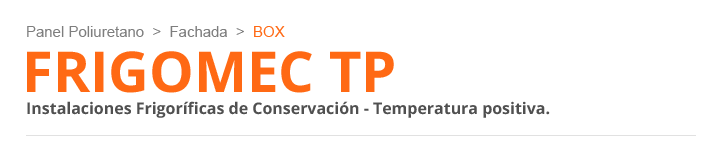
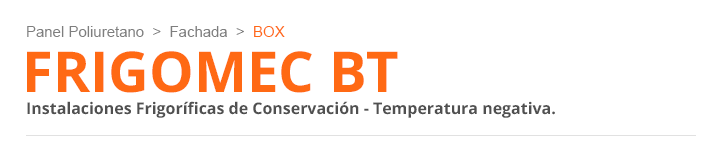
cambios del mail - miercoles

diff --git a/productos/colores/colores.html b/productos/colores/colores.html
@@ -1,0 +1,82 @@
+<section class="producto">
+  <div class="nombreProducto">
+    <h2>GAMA DE COLORES</h2><span class="rutaProducto"></span>
+  </div>
+  <hr>
+  <div class="row">
+    <div class="col-sm-12">
+      <p class="subtitutlo fnaranja">Colores Estándar.</p>
+    </div>
+  </div>
+  <div class="row">
+    <div class="col-sm-7 text-center">
+      <img src="productos/colores/colores1.png" class="img-responsive inline">
+    </div>
+    <div class="col-sm-5">
+      <p> 1. Blanco Pirineo - 1006<br>
+          2. Rojo Teja - 7001<br>
+          3. Verde Navarra - 3000<br>
+          4. Crema Bidasoa - 2002<br>
+          5. Gris Perla - 7501<br>
+          6. Marfil - 1015<br>
+          7. Silver Metálic - 9006<br>       
+          8. Blanco Puro - 9010<br>
+          9. Verde Reseda - 6011<br>
+          10. Negro Intenso - 9005<br>
+          11. Blue Vision<br>
+          12. Blanco Grigio - 9002<br>
+          13. Azul Lago - 4000<br>
+          14. Azul Grisáceo - 5008<br>
+          15. Gris Antracita - 7016<br>
+          16. Albero Envejecido<br>
+          17. Rojo Coppo<br>
+          18. Rojo Coppo Envejecido<br>
+          19. Gris Pizarra Coppo<br>
+          20. Verde Coppo<br>
+          </p>
+    </div>
+
+  </div>
+  <div class="row">
+    <div class="col-sm-12">
+      <p class="subtitutlo fnaranja">Colores No Estándar.</p>
+    </div>
+  </div>
+  <div class="row">
+    <div class="col-sm-7 text-center">
+      <img src="productos/colores/colores2.png" class="img-responsive inline">
+    </div>
+    <div class="col-sm-5">
+      <p> 1. Arena - 2000<br>
+          2. Gris Beige - 7006<br>
+          3. Gris Polvo - 7037<br>
+          4. Gris Basalto - 7012<br>
+          5. Gris Agata - 7038<br>
+          6. Rojo Vivo - 3000<br>
+          7. Rosso Siena - 3009<br>
+          8. Azul Marino<br>
+          9. Verde Abeto<br>
+          10. Gris Umbro
+          </p>
+    </div>
+
+  </div>
+  <!-- tablas ocultas en xs -->
+  <div class="tabas hidden-xs text-center">
+    <!--<span class="">Espesor (mm)</span>
+  	<img src="productos/poliuretano/frigomec/jespesor1.png">
+    <img src="productos/poliuretano/frigomec/jespesor2.png">
+    <hr>
+    <img src="productos/poliuretano/frigomec/jtabla1.png" class="img-responsive inline">
+    <br><br>
+    <img src="productos/poliuretano/frigomec/jtabla2.png" class="img-responsive inline">
+    <br><br>
+    <img src="productos/poliuretano/frigomec/jtabla3.png" class="img-responsive inline">-->
+   
+  </div>
+  <!-- boton pdf -->
+  <div class="pdf">
+  	<button type="button" class="btn btn-success btn-lg btn-block">Más Especificaciones</button>
+  </div>
+
+</section>

diff --git a/productos/poliuretano/construccionCubierta/italtap.html b/productos/poliuretano/construccionCubierta/italtap.html
@@ -1,0 +1,38 @@
+<section class="producto">
+  <div class="nombreProducto">
+    <h2>ITALTAP</h2><span class="rutaProducto">Panel Poliuretano / Cubierta / Italtap</span>
+  </div>
+  <hr>
+  <div class="row">
+  	<div class="col-sm-6">
+  		<p class="subtitutlo fnaranja">Panel Cubierta Industrial 3 grecas, con tapajunta.</p>
+  		<p>Sobrecargas admisibles, uniformemente distribuidas en kg/m2 (Ratio de conversión 1kg/m2 = 0,00981 KN/m2).
+      Las tablas se han desarrollado para paneles con soportes de acero, de 0,5 mm, nominal imponiendo la limitación de deformación: Flecha f=1/200 l.
+      Coeficiente de seguridad: 2.5
+		</p>
+  	</div>
+  	<div class="col-sm-6">
+  		<img src="productos/poliuretano/construccionCubierta/italtap.png" class="img-responsive">
+  	</div>
+  </div>
+  <!-- tablas ocultas en xs -->
+  <div class="tabas hidden-xs text-center">
+    <span class="">Espesor (mm)</span>
+  	<img src="productos/poliuretano/construccionCubierta/italtapespesor1.png">
+    <img src="productos/poliuretano/construccionCubierta/italtapespesor2.png">
+    <hr>
+
+    <img src="productos/poliuretano/construccionCubierta/italtaptabla1.png" class="img-responsive inline">
+    <p class="text-center">El coeficiente de transmisión térmica (K) se ha calculado considerando el espesor del núcleo aislante y
+teniendo en cuenta la resistencia superficial.</p>
+    <img src="productos/poliuretano/construccionCubierta/italtaptabla2.png" class="img-responsive inline">
+    <br><br>
+    <img src="productos/poliuretano/construccionCubierta/italtaptabla3.png" class="img-responsive inline">
+    
+  </div>
+  <!-- boton pdf -->
+  <div class="pdf">
+  	<button type="button" class="btn btn-success btn-lg btn-block">Más Especificaciones</button>
+  </div>
+
+</section>

diff --git a/productos/poliuretano/frigomec/frigomecbt.html b/productos/poliuretano/frigomec/frigomecbt.html
@@ -1,0 +1,35 @@
+<section class="producto">
+  <div class="nombreProducto">
+    <h2>FRIGOMEC BT</h2><span class="rutaProducto">Panel Poliuretano / Frigomec / Frigomec BT</span>
+  </div>
+  <hr>
+  <div class="row">
+  	<div class="col-sm-6">
+  		<p class="subtitutlo fnaranja">Instalaciones Frigoríficas de Conservación.<br>Temperatura negativa.</p>
+  		<p>Se utilizan para la construcción de instalaciones para el almacenamiento y conservación de materiales a baja temperatura, entre 0°C -5°C o a temperatura de congelación hasta -3'°C.
+<br><br>
+Su especial morfología permite la construcción rápida, de calidad y eficiente, cumpliendo las más exigentes normativas.
+		</p>
+  	</div>
+  	<div class="col-sm-6">
+  		<img src="productos/poliuretano/frigomec/frigomecbt.png" class="img-responsive">
+  	</div>
+  </div>
+  <!-- tablas ocultas en xs -->
+  <div class="tabas hidden-xs text-center">
+    <span class="">Espesor (mm)</span>
+  	<img src="productos/poliuretano/frigomec/fbtespesor1.png">
+    <img src="productos/poliuretano/frigomec/fbtespesor2.png">
+    <hr>
+    <img src="productos/poliuretano/frigomec/fbttabla1.png" class="img-responsive inline">
+    <br><br>
+    <img src="productos/poliuretano/frigomec/fbttabla2.png" class="img-responsive inline">
+    <br><br>
+    <img src="productos/poliuretano/frigomec/fbttabla3.png" class="img-responsive inline">
+  </div>
+  <!-- boton pdf -->
+  <div class="pdf">
+  	<button type="button" class="btn btn-success btn-lg btn-block">Más Especificaciones</button>
+  </div>
+
+</section>

diff --git a/productos/poliuretano/frigomec/jumbogsq.html b/productos/poliuretano/frigomec/jumbogsq.html
@@ -1,0 +1,36 @@
+<section class="producto">
+  <div class="nombreProducto">
+    <h2>JUMBO GSQ</h2><span class="rutaProducto">Panel Poliuretano / Frigomec / Jumbo GSQ</span>
+  </div>
+  <hr>
+  <div class="row">
+  	<div class="col-sm-6">
+  		<p class="subtitutlo fnaranja">Panel de Pared</p>
+  		<p>Sobrecargas admisibles, uniformemente distribuidas en kg/m2 (Ratio de conversión 1kg/m2 = 0,00981 KN/m2).
+        Las tablas se han desarrollado para paneles con soportes de acero, de 0,5 mm, nominal imponiendo la
+limitación de deformación: Flecha f=1/200 l.
+		</p>
+  	</div>
+  	<div class="col-sm-6">
+  		<img src="productos/poliuretano/frigomec/jumbogsq.png" class="img-responsive">
+  	</div>
+  </div>
+  <!-- tablas ocultas en xs -->
+  <div class="tabas hidden-xs text-center">
+    <span class="">Espesor (mm)</span>
+  	<img src="productos/poliuretano/frigomec/jespesor1.png">
+    <img src="productos/poliuretano/frigomec/jespesor2.png">
+    <hr>
+    <img src="productos/poliuretano/frigomec/jtabla1.png" class="img-responsive inline">
+    <br><br>
+    <img src="productos/poliuretano/frigomec/jtabla2.png" class="img-responsive inline">
+    <br><br>
+    <img src="productos/poliuretano/frigomec/jtabla3.png" class="img-responsive inline">
+   
+  </div>
+  <!-- boton pdf -->
+  <div class="pdf">
+  	<button type="button" class="btn btn-success btn-lg btn-block">Más Especificaciones</button>
+  </div>
+
+</section>

diff --git a/productos/poliuretano/frigomec/frigomectp.html b/productos/poliuretano/frigomec/frigomectp.html
@@ -1,6 +1,6 @@
 <section class="producto">
   <div class="nombreProducto">
-    <h2>FRIGOMEC TP</h2><span class="rutaProducto">Panel Poliuretano / Agropanel / Frigomec TP</span>
+    <h2>FRIGOMEC TP</h2><span class="rutaProducto">Panel Poliuretano / Frigomec / Frigomec TP</span>
   </div>
   <hr>
   <div class="row">

diff --git a/productos.php b/productos.php
@@ -51,8 +51,8 @@
                                             <li><a class="cargaPagina"  data-producto="monoterdeck" data-cat="poliuretano/construccionCubierta">Mono Ter Deck</a></li>
                                             <li><a class="cargaPagina"  data-producto="tapajuntas" data-cat="poliuretano/construccionCubierta">Tapajuntas</a></li>
                                             <li><a class="cargaPagina"  data-producto="chapapenta" data-cat="poliuretano/construccionCubierta">Chapa Penta G5</a></li>
-                                            <li><a >Italtap</a></li>
-                                            <li><a >Monoitaltap</a></li>
+                                            <li><a class="cargaPagina"  data-producto="italtap" data-cat="poliuretano/construccionCubierta">Italtap</a></li>
+                                            <!--<li><a >Monoitaltap</a></li>-->
                                             <li><a class="cargaPagina"  data-producto="italcoppo" data-cat="poliuretano/construccionCubierta">Italcoppo</a></li>
                                         </ul>
                                    </li>
@@ -63,8 +63,8 @@
                                             <li><a class="cargaPagina" data-producto="polipur" data-cat="poliuretano/agropanel">Polipur</a></li>
                                             <li><a class="cargaPagina" data-producto="agropenta" data-cat="poliuretano/agropanel">Agropenta</a></li>
                                             <li><a class="cargaPagina" data-producto="agrocoppo" data-cat="poliuretano/agropanel">Agrocoppo</a></li>
-                                            <li><a >Agroitaltap</a></li>
-                                            <li><a >Agromonoter</a></li>
+                                            <!--<li><a >Agroitaltap</a></li>
+                                            <li><a >Agromonoter</a></li>-->
                                             <li><a class="cargaPagina" data-producto="agrotapajuntas" data-cat="poliuretano/agropanel">Agrotapajuntas</a></li>
                                  
                                   
@@ -72,6 +72,7 @@
                                        
                                             <li><a class="cargaPagina" data-producto="frigomecbt" data-cat="poliuretano/frigomec">Frigomec BT</a></li>
                                             <li><a class="cargaPagina" data-producto="frigomectp" data-cat="poliuretano/frigomec">Frigomec TP</a></li>
+                                            <li><a class="cargaPagina" data-producto="jumbogsq" data-cat="poliuretano/frigomec">Jumbo GSQ</a></li>
  
                                                    
                                 </ul>
